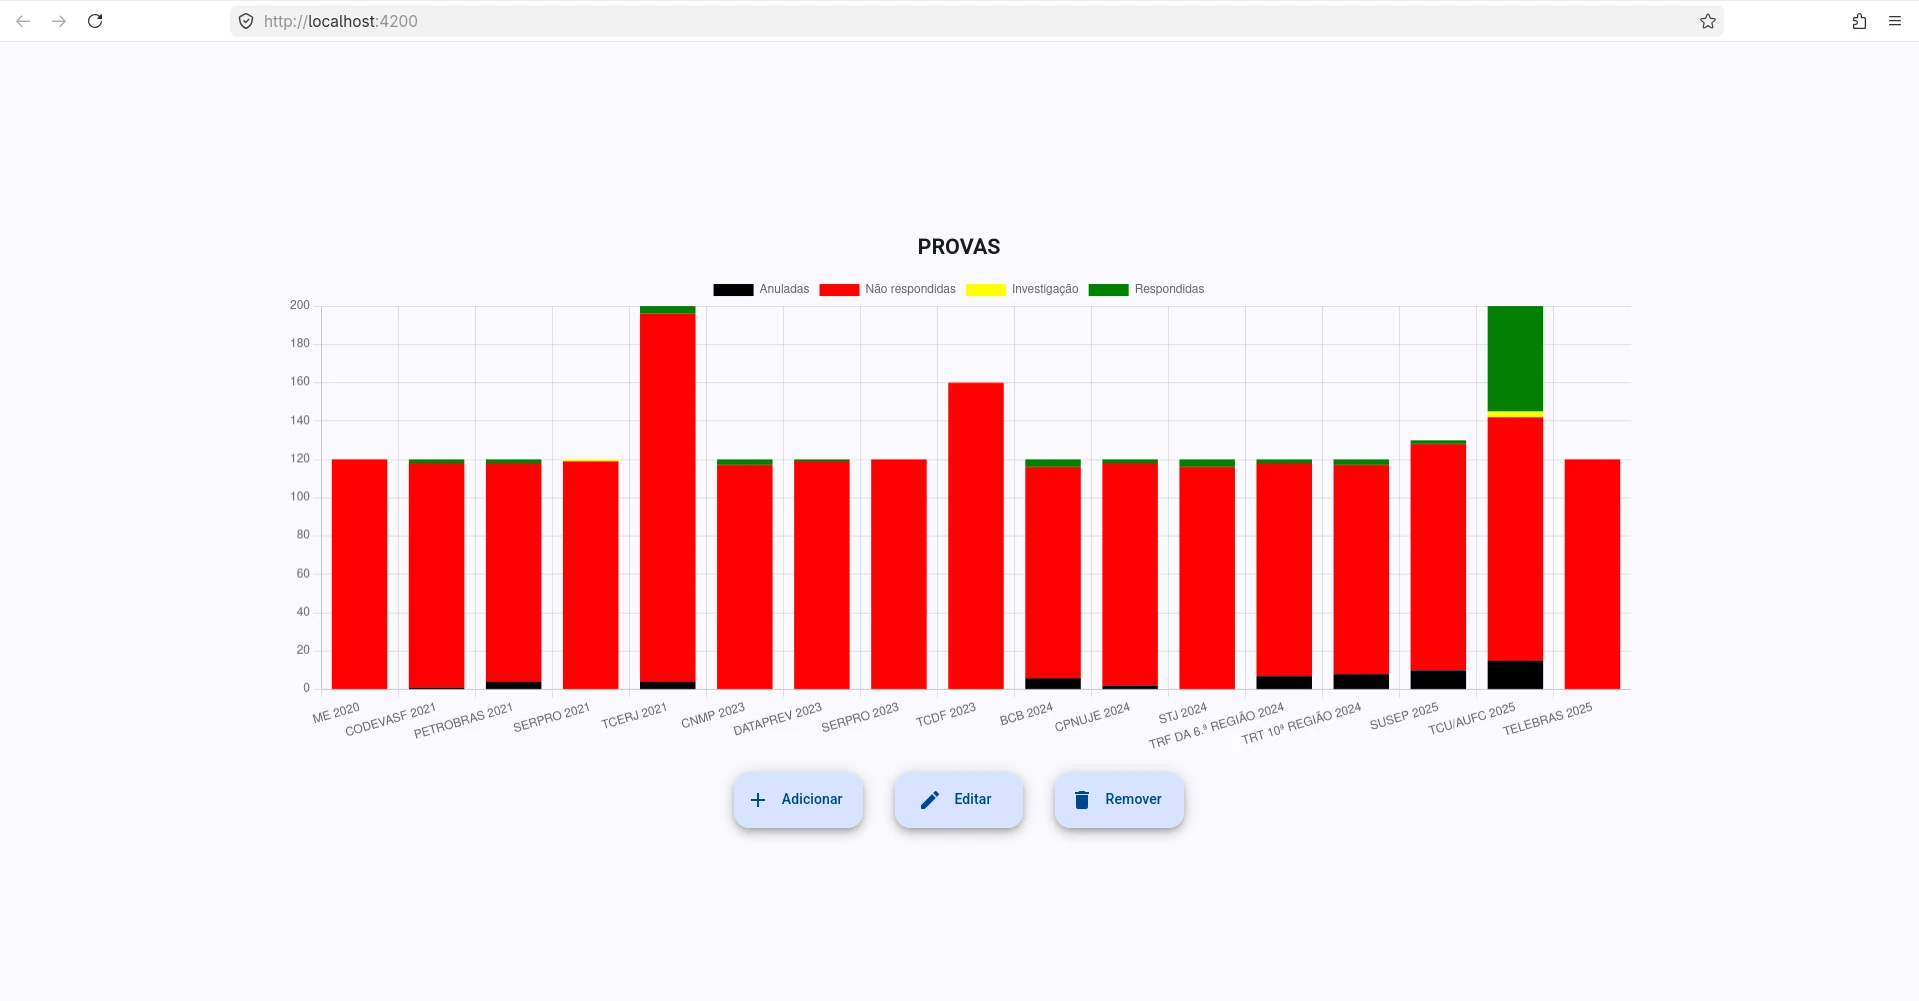
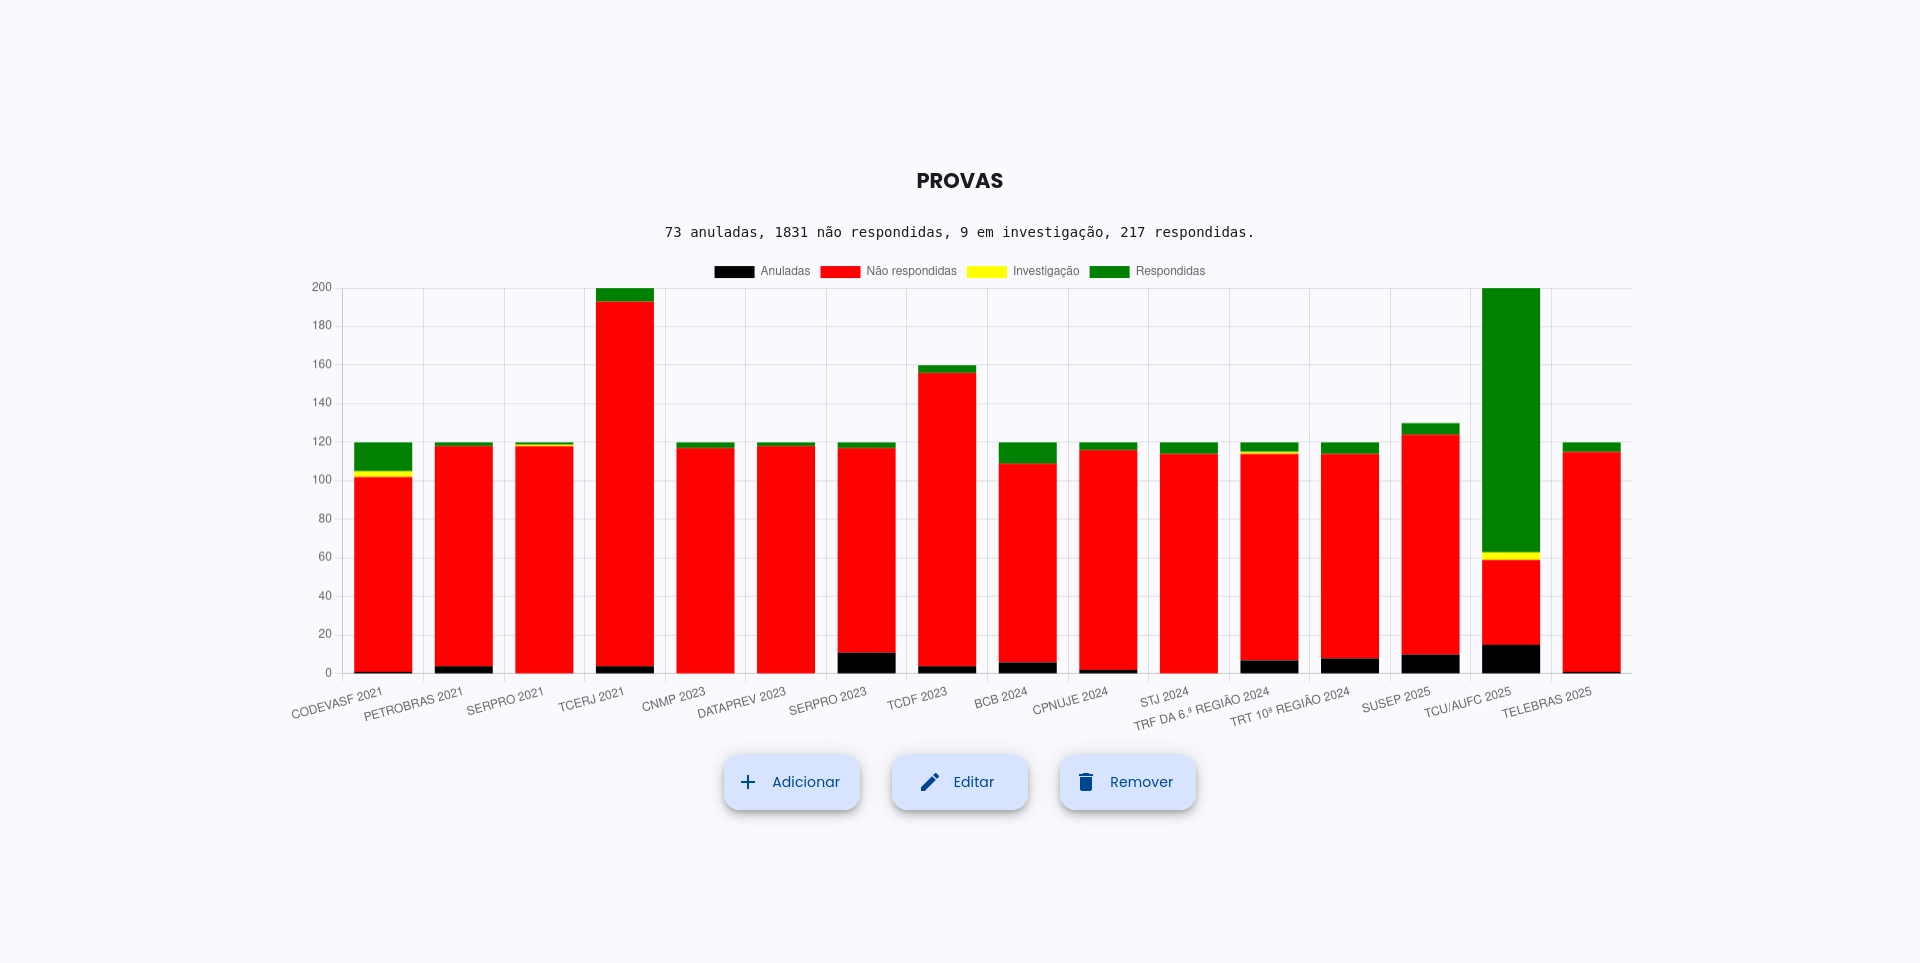
feat: add info total questions by status

Changed region(s): [[0.1537, 0.1558, 0.8609, 0.8723], [0.123, 0.0, 0.2152, 0.0312], [0.1537, 0.2804, 0.1845, 0.3427]]

diff --git a/src/app/exams/chart/chart.ts b/src/app/exams/chart/chart.ts
@@ -21,6 +21,7 @@ export class Chart implements OnInit {
   readonly dialog = inject(MatDialog);
   private examService = inject(ExamService);
   exams: Exam[] = [];
+  totalByQuestionStatus = signal<number[]>([0, 0, 0, 0]);
   barChartData = signal<ChartConfiguration<'bar'>['data']>({
     datasets: []
   });
@@ -69,13 +70,14 @@ export class Chart implements OnInit {
               stack: 'provas'
             },
             {
-              data: this.countByQuestionStatus("acerto"),
               label: 'Respondidas',
+              data: this.countByQuestionStatus("acerto"),
               backgroundColor: '#008000',
               stack: 'provas'
             }
           ]
         });
+        this.updateTotalByQuestionStatus();
       },
       error: (error) => {
         console.error('Error fetching exams:', error);
@@ -93,6 +95,19 @@ export class Chart implements OnInit {
     return this.exams.map(exam =>
       exam.name
     );
+  }
+
+  updateTotalByQuestionStatus() {
+    const statuses: string[] = ["nulo", "erro", "duvida", "acerto"];
+    for (const [index, status] of statuses.entries()) {
+      this.totalByQuestionStatus.update(currentTotalByQuestionStatus => {
+        const newTotalByQuestionStatus = [...currentTotalByQuestionStatus];
+        newTotalByQuestionStatus[index] = this.countByQuestionStatus(status).reduce(
+          (acc, curr) => acc + curr, 0
+        );
+        return newTotalByQuestionStatus;
+      });
+    }
   }
 
   openAddExamDialog(): void {

diff --git a/src/app/exams/chart/chart.html b/src/app/exams/chart/chart.html
@@ -1,4 +1,10 @@
 <h2>PROVAS</h2>
+<p style="font-family: monospace;">
+  {{totalByQuestionStatus()[0]}} anuladas,
+  {{totalByQuestionStatus()[1]}} não respondidas,
+  {{totalByQuestionStatus()[2]}} em investigação,
+  {{totalByQuestionStatus()[3]}} respondidas.
+</p>
 <div style="width:70%; height: 50%">
   <canvas
     baseChart
